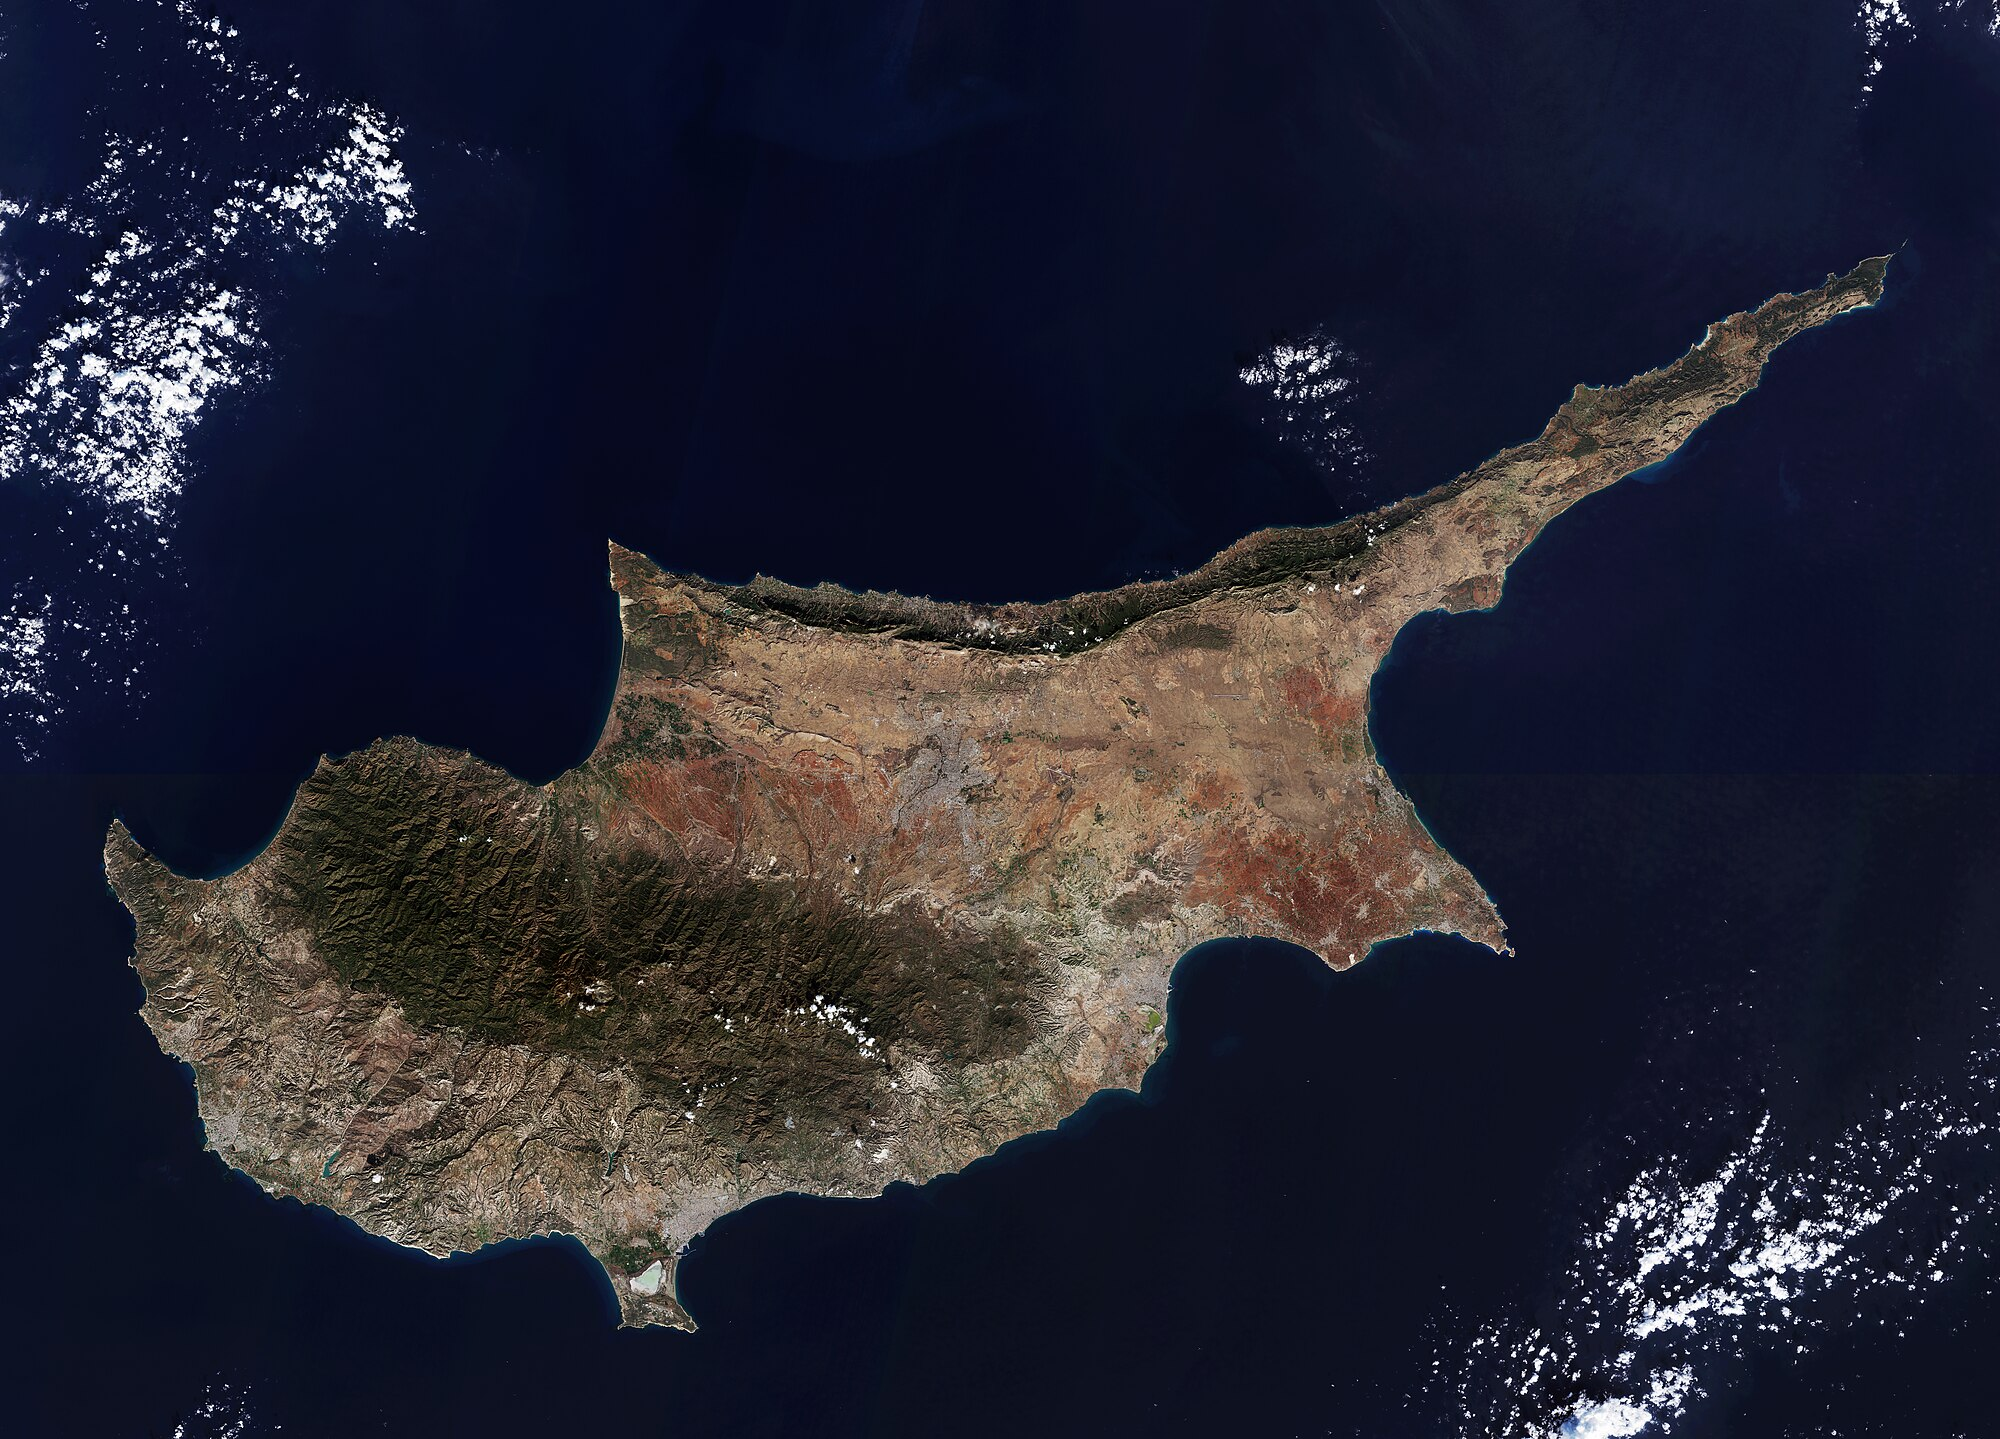
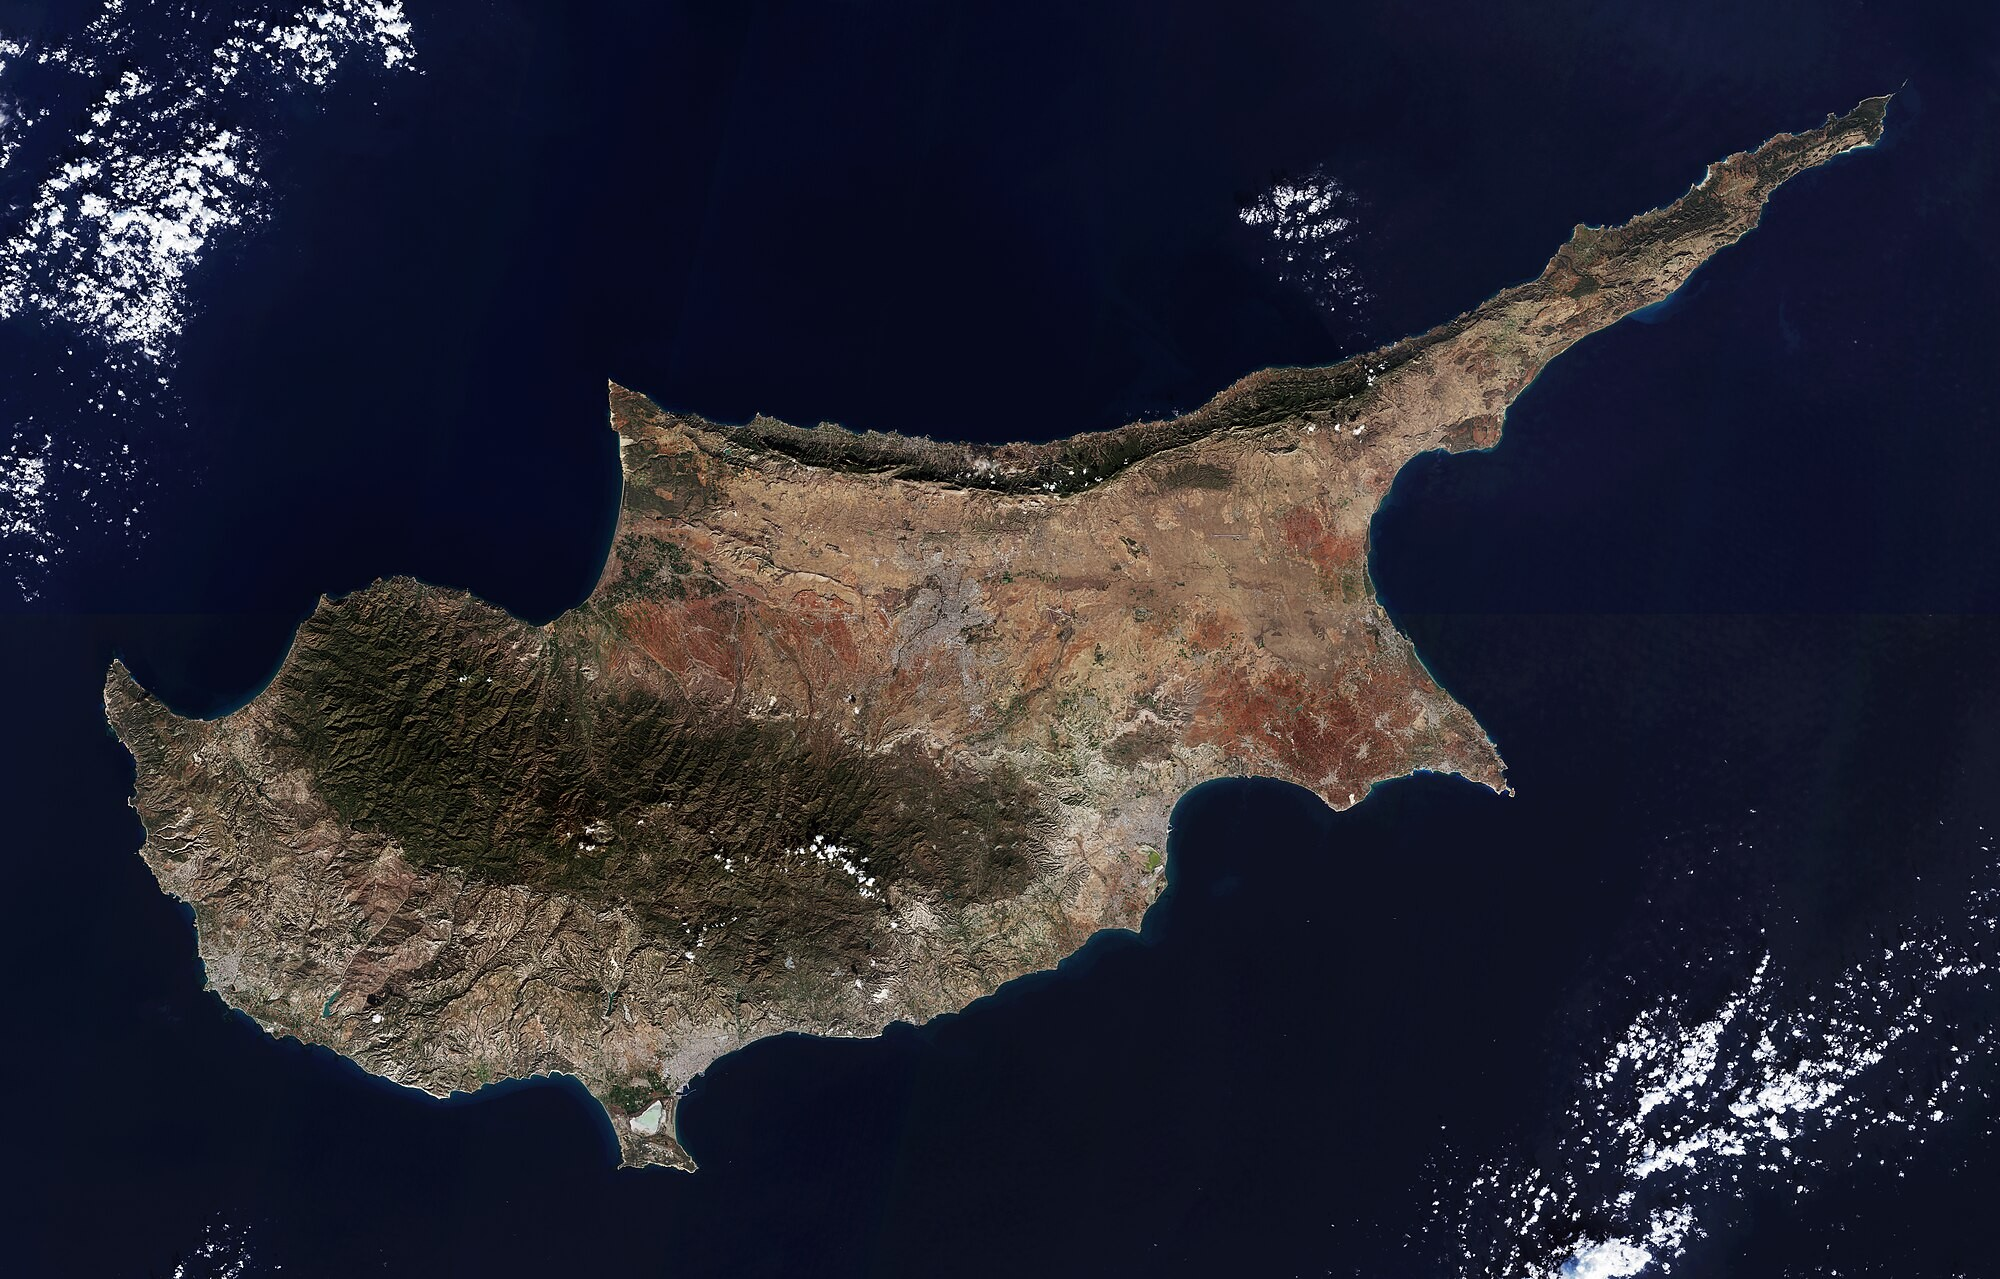
wip

diff --git a/index.html b/index.html
@@ -96,17 +96,17 @@ function renderBackground() {
         octx.stroke();
     }
 
-    // Draw Cyprus satellite image
+    // Draw Cyprus satellite image (contain — whole island always visible)
     if (cyprusImgLoaded) {
         const imgAspect = cyprusImg.width / cyprusImg.height;
         const canvasAspect = offscreen.width / offscreen.height;
         let drawW, drawH;
         if (canvasAspect > imgAspect) {
-            drawW = offscreen.width * 0.92;
-            drawH = drawW / imgAspect;
-        } else {
-            drawH = offscreen.height * 0.85;
+            drawH = offscreen.height;
             drawW = drawH * imgAspect;
+        } else {
+            drawW = offscreen.width;
+            drawH = drawW / imgAspect;
         }
         const drawX = (offscreen.width - drawW) / 2;
         const drawY = (offscreen.height - drawH) / 2;
@@ -128,8 +128,18 @@ function drawMouse(x, y, t) {
 
     ctx.save();
 
+    // Glow circle behind mouse for contrast
+    const glow = ctx.createRadialGradient(x, cy, 5, x, cy, 45);
+    glow.addColorStop(0, 'rgba(255, 255, 255, 0.55)');
+    glow.addColorStop(0.6, 'rgba(255, 255, 255, 0.2)');
+    glow.addColorStop(1, 'rgba(255, 255, 255, 0)');
+    ctx.fillStyle = glow;
+    ctx.beginPath();
+    ctx.arc(x, cy, 45, 0, Math.PI * 2);
+    ctx.fill();
+
     // Body
-    ctx.fillStyle = '#a0a0a0';
+    ctx.fillStyle = '#e0e0e0';
     ctx.beginPath();
     ctx.ellipse(x, cy, 22, 16, 0, 0, Math.PI * 2);
     ctx.fill();
@@ -137,14 +147,19 @@ function drawMouse(x, y, t) {
     ctx.lineWidth = 1;
     ctx.stroke();
 
+    // White outline
+    ctx.strokeStyle = '#fff';
+    ctx.lineWidth = 2.5;
+    ctx.stroke();
+
     // Belly
-    ctx.fillStyle = '#c0c0c0';
+    ctx.fillStyle = '#f0f0f0';
     ctx.beginPath();
     ctx.ellipse(x, cy + 3, 14, 10, 0, 0, Math.PI * 2);
     ctx.fill();
 
     // Left ear
-    ctx.fillStyle = '#a0a0a0';
+    ctx.fillStyle = '#e0e0e0';
     ctx.beginPath();
     ctx.ellipse(x - 14, cy - 14, 9, 10, -0.3, 0, Math.PI * 2);
     ctx.fill();
@@ -156,7 +171,7 @@ function drawMouse(x, y, t) {
     ctx.fill();
 
     // Right ear
-    ctx.fillStyle = '#a0a0a0';
+    ctx.fillStyle = '#e0e0e0';
     ctx.beginPath();
     ctx.ellipse(x + 14, cy - 14, 9, 10, 0.3, 0, Math.PI * 2);
     ctx.fill();
